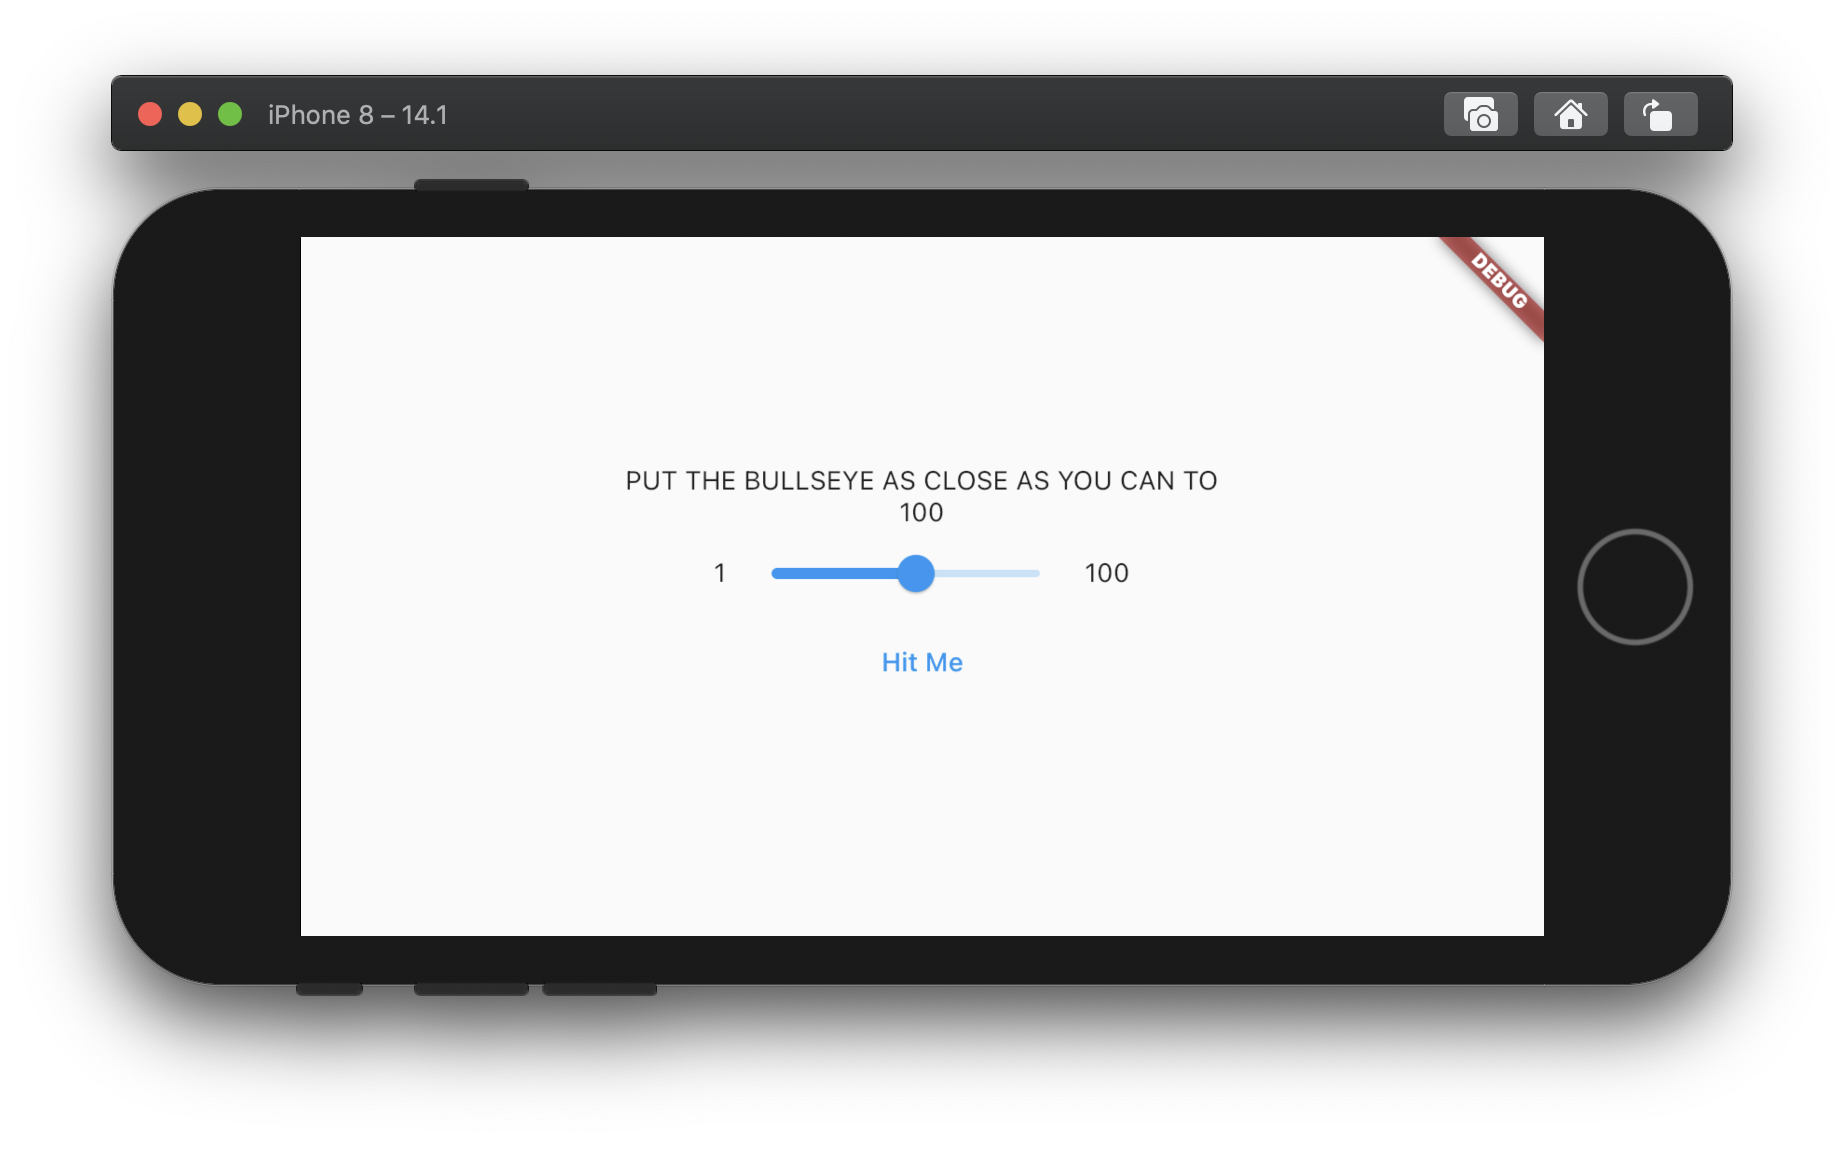
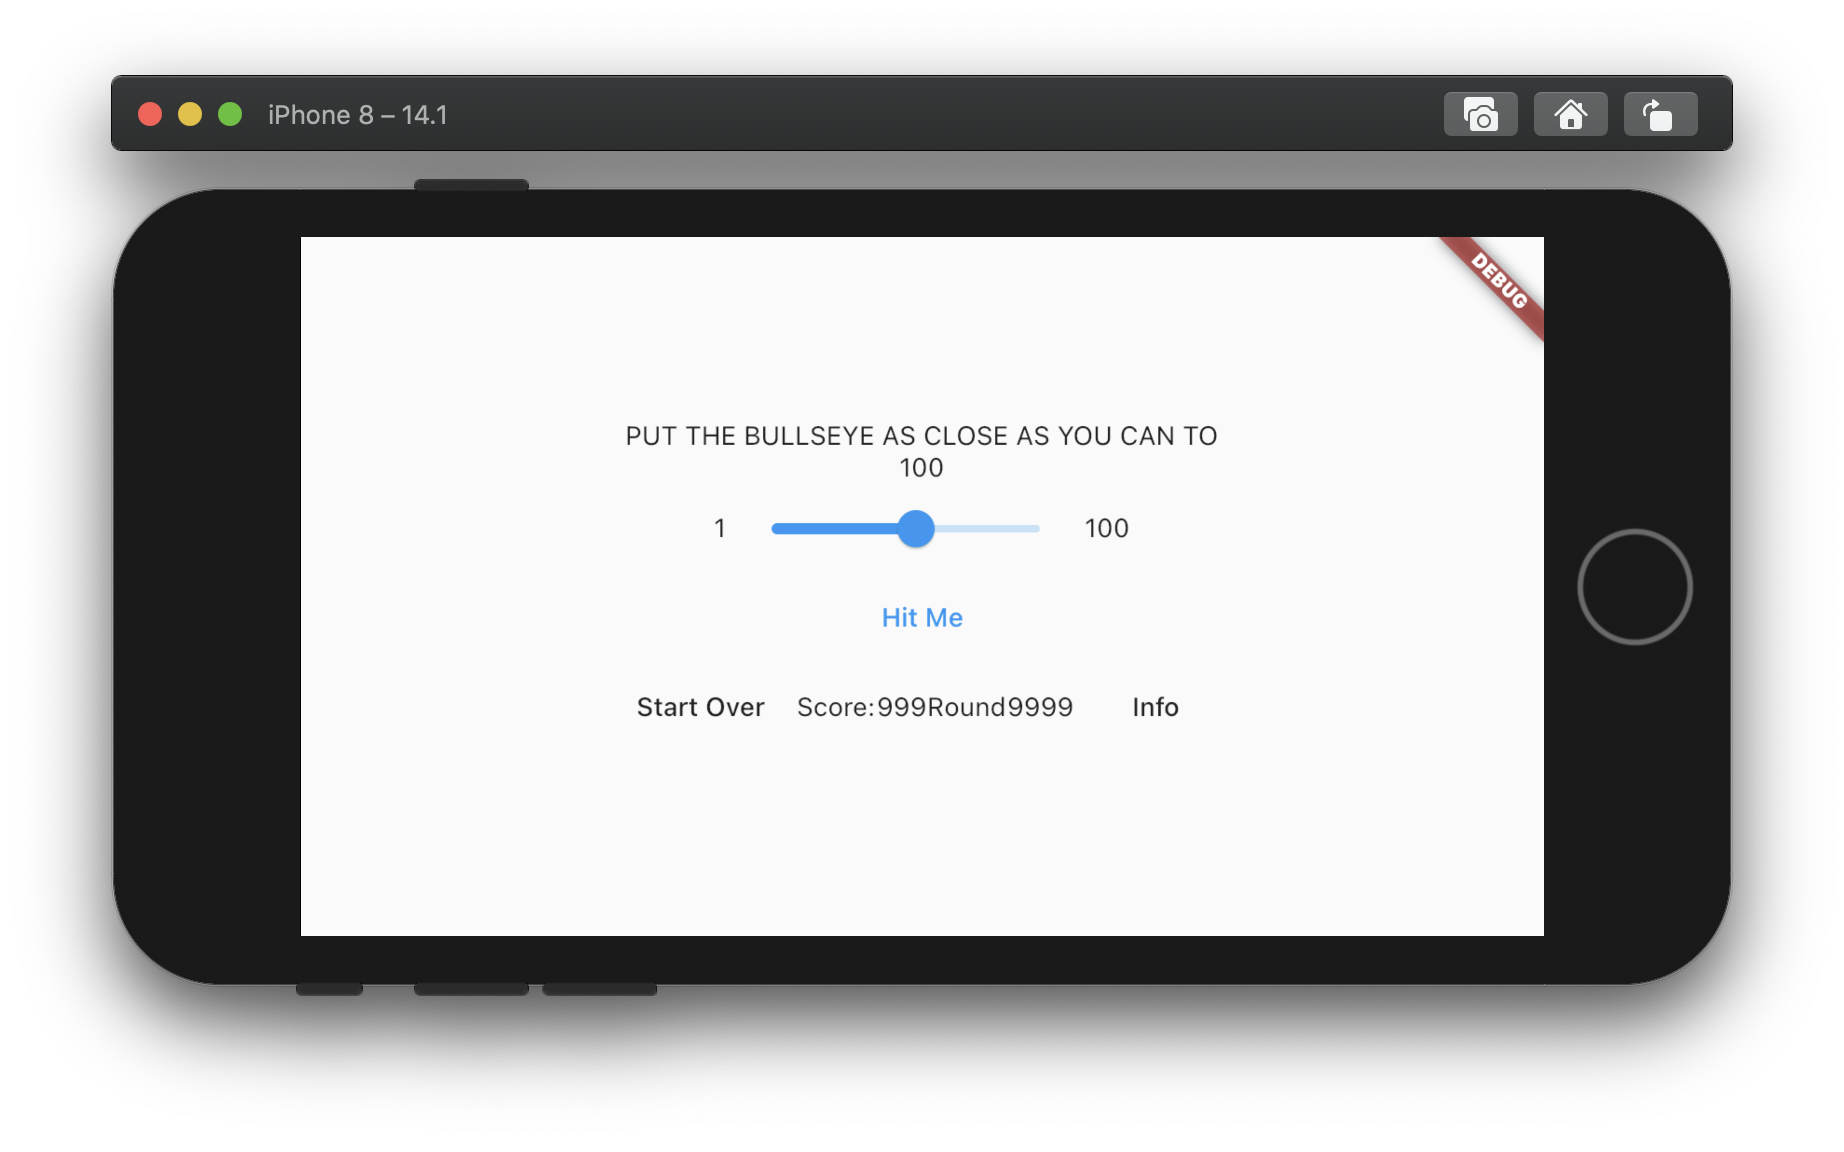
add score widget

Changed region(s): [[0.34, 0.375, 0.6491, 0.625], [0.6182, 0.5938, 0.6491, 0.625]]

diff --git a/lib/score.dart b/lib/score.dart
@@ -1,0 +1,38 @@
+import 'package:flutter/material.dart';
+
+class Score extends StatefulWidget {
+  Score({
+    Key key,
+    @required this.totalScore,
+    @required this.round,
+  }) : super(key: key);
+
+  final int totalScore;
+  final int round;
+
+  @override
+  _ScoreState createState() => _ScoreState();
+}
+
+class _ScoreState extends State<Score> {
+  @override
+  Widget build(BuildContext context) {
+    return Row(
+      mainAxisAlignment: MainAxisAlignment.center,
+      children: [
+        FlatButton(
+          child: Text('Start Over'),
+          onPressed: () {},
+        ),
+        Text("Score:"),
+        Text("999"),
+        Text("Round"),
+        Text("9999"),
+        FlatButton(
+          child: Text('Info'),
+          onPressed: () {},
+        )
+      ],
+    );
+  }
+}

diff --git a/lib/main.dart b/lib/main.dart
@@ -2,6 +2,7 @@ import 'package:flutter/material.dart';
 import 'package:flutter/services.dart';
 import 'package:Bullseye/prompt.dart';
 import 'package:Bullseye/control.dart';
+import 'package:Bullseye/score.dart';
 
 void main() => runApp(BullsEyeApp());
 
@@ -50,7 +51,8 @@ class _GamePageState extends State<GamePage> {
                 _showAler(context);
                 print("Button clicked!");
               },
-            )
+            ),
+            Score(totalScore: 999, round: 999),
           ],
         ),
       ),
